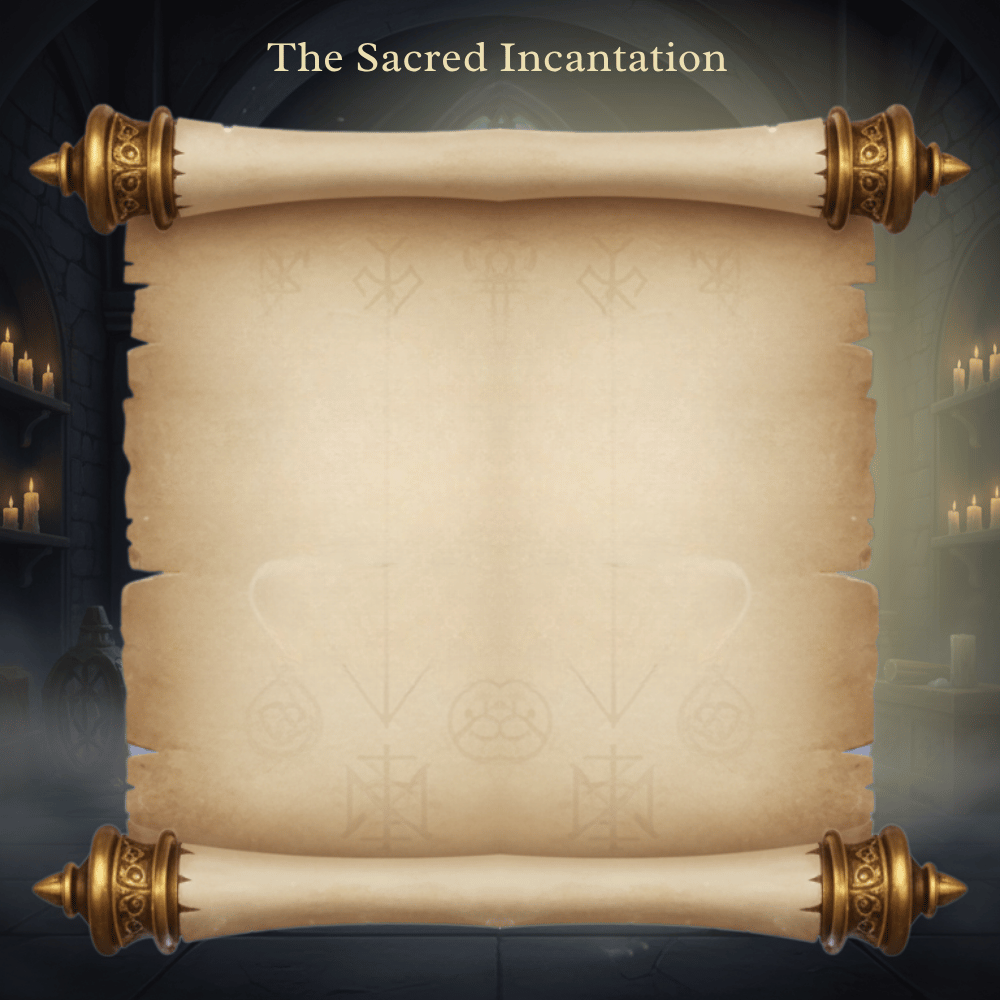
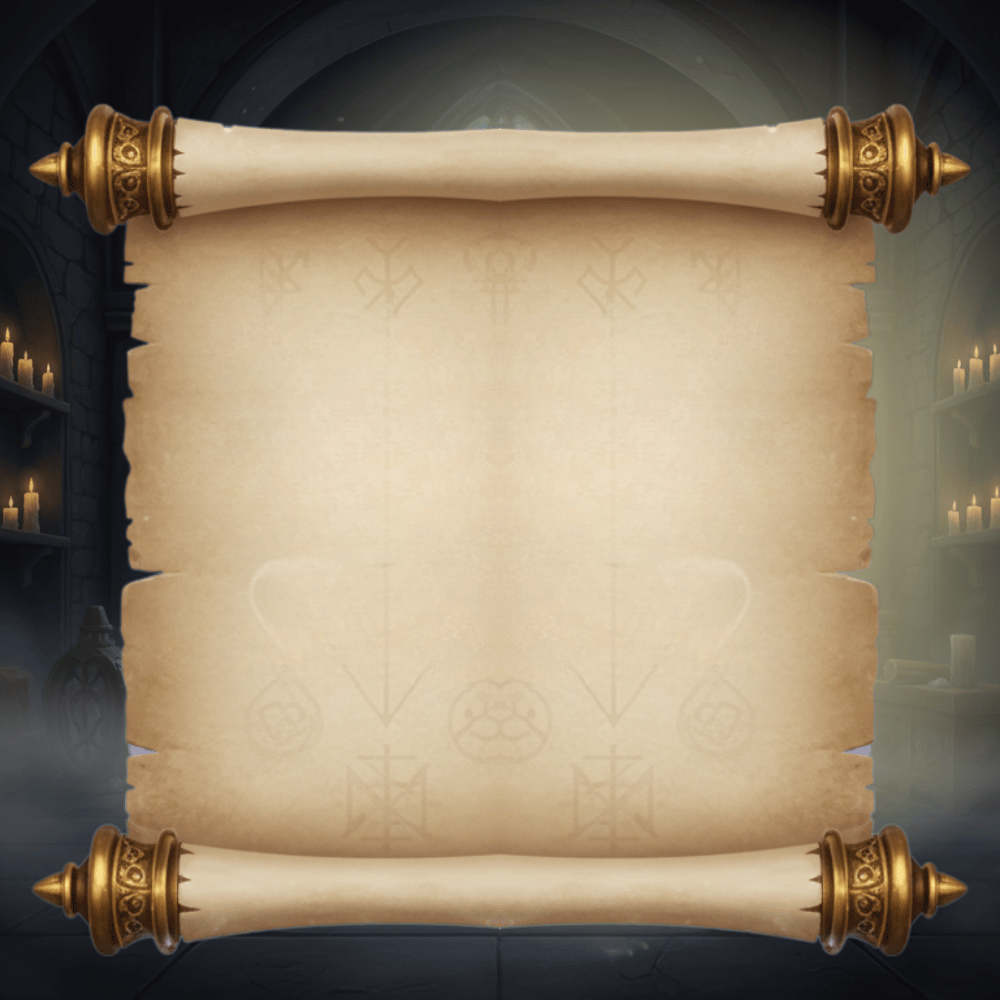
wicca spell generator update

Changed region(s): [[0.279, 0.031, 0.713, 0.093]]

diff --git a/src/app/components/WiccaRitualFlow.tsx b/src/app/components/WiccaRitualFlow.tsx
@@ -327,7 +327,17 @@ export const WiccaRitualFlow: React.FC<{ session: Session; isSubscribed: boolean
                             <div className="w-full h-full flex flex-col items-center justify-center">
                                 <div className="relative w-full grow">
                                     <Image src={`${ASSET_PATH}/wicca_intro_instructions.png`} fill style={{ objectFit: 'contain' }} alt="Wicca Instructions" priority />
-                                    <div className="absolute top-1/2 left-1/2 -translate-x-1/2 -translate-y-1/2 w-3/5 max-w-[280px] text-center pointer-events-none">
+                                    <div 
+                                        className="absolute text-center pointer-events-none flex flex-col justify-center"
+                                        // THE FIX: Applying coordinates from user image for wicca_intro_instructions.png (920x1300)
+                                        // X: 247.4, Y: 264.3, W: 505.1, H: 581.1
+                                        style={{
+                                            left: `calc( (247.4 / 920) * 100% )`,
+                                            top: `calc( (264.3 / 1300) * 100% )`,
+                                            width: `calc( (505.1 / 920) * 100% )`,
+                                            height: `calc( (581.1 / 1300) * 100% )`,
+                                        }}
+                                    >
                                         <h2 className="text-3xl md:text-4xl lg:text-5xl font-serif text-purple-200 mb-6" style={{ textShadow: '0 0 10px rgba(192, 132, 252, 0.5)' }}>
                                             Wiccan Spellcraft
                                         </h2>
@@ -346,19 +356,9 @@ export const WiccaRitualFlow: React.FC<{ session: Session; isSubscribed: boolean
                                 <Image src={`${ASSET_PATH}/wicca_scroll_intention.png`} fill style={{ objectFit: 'contain' }} alt="Inscribe Intention" />
                                  <div 
                                     className="absolute text-center"
-                                    // THE FIX: Applying precise coordinates converted to percentages.
-                                    // Original image size is assumed to be 1000px wide for calculation simplicity.
-                                    // Left: (179.8 / 1000) * 100 = 18%
-                                    // Top: (233.9 / 1000) * 100 = 23.4%
-                                    // Width: (634.5 / 1000) * 100 = 63.5%
-                                    // Height: (589.2 / 1000) * 100 = 58.9%
                                     style={{
-                                        top: '50%',
-                                        left: '50%',
-                                        transform: 'translate(-50%, -50%)',
-                                        width: '63.5%',
-                                        height: '58.9%',
-                                        paddingTop: '8%', // Manual adjustment for title
+                                        top: '50%', left: '50%', transform: 'translate(-50%, -50%)',
+                                        width: '63.5%', height: '58.9%', paddingTop: '8%',
                                     }}
                                  >
                                      <h3 className="font-serif text-xl md:text-2xl text-[#4a2e1c] mb-2 md:mb-4">Inscribe Your Intention</h3>
@@ -497,15 +497,8 @@ export const WiccaRitualFlow: React.FC<{ session: Session; isSubscribed: boolean
                                 <div 
                                     className="absolute text-center"
                                     style={{
-                                        top: '50%',
-                                        left: '50%',
-                                        transform: 'translate(-50%, -50%)',
-                                        width: '63.5%',
-                                        height: '58.9%',
-                                        paddingTop: '8%',
-                                        display: 'flex',
-                                        flexDirection: 'column',
-                                        justifyContent: 'center'
+                                        top: '50%', left: '50%', transform: 'translate(-50%, -50%)', width: '63.5%', height: '58.9%',
+                                        paddingTop: '8%', display: 'flex', flexDirection: 'column', justifyContent: 'center'
                                     }}
                                 >
                                     <h3 className="font-serif text-2xl text-[#4a2e1c] mb-4">Recite the Incantation</h3>
@@ -555,7 +548,17 @@ export const WiccaRitualFlow: React.FC<{ session: Session; isSubscribed: boolean
                          <Stage className="justify-center">
                              <div className="relative w-full h-full">
                                 <Image src={`${ASSET_PATH}/wicca_spell_manifestation.png`} fill style={{ objectFit: 'contain' }} alt="Spell Manifestation" />
-                                <div className="absolute top-1/2 left-1/2 -translate-x-1/2 -translate-y-1/2 text-center text-white font-serif text-4xl w-1/2 md:w-2/5">
+                                <div 
+                                    className="absolute text-center text-white font-serif text-4xl flex items-center justify-center"
+                                    // THE FIX: Applying coordinates from user image for wicca_spell_manifestation.png (assumed 1024x1024)
+                                    // X: 323, Y: 293.5, W: 384, H: 580.9
+                                    style={{
+                                        left: `calc( (323 / 1024) * 100% )`,
+                                        top: `calc( (293.5 / 1024) * 100% )`,
+                                        width: `calc( (384 / 1024) * 100% )`,
+                                        height: `calc( (580.9 / 1024) * 100% )`,
+                                    }}
+                                >
                                     {generatedSpell.affirmation}
                                 </div>
                                 <RitualButton onClick={onBack} className="absolute bottom-[25%] left-1/2 -translate-x-1/2">Return to Spell Room</RitualButton>
